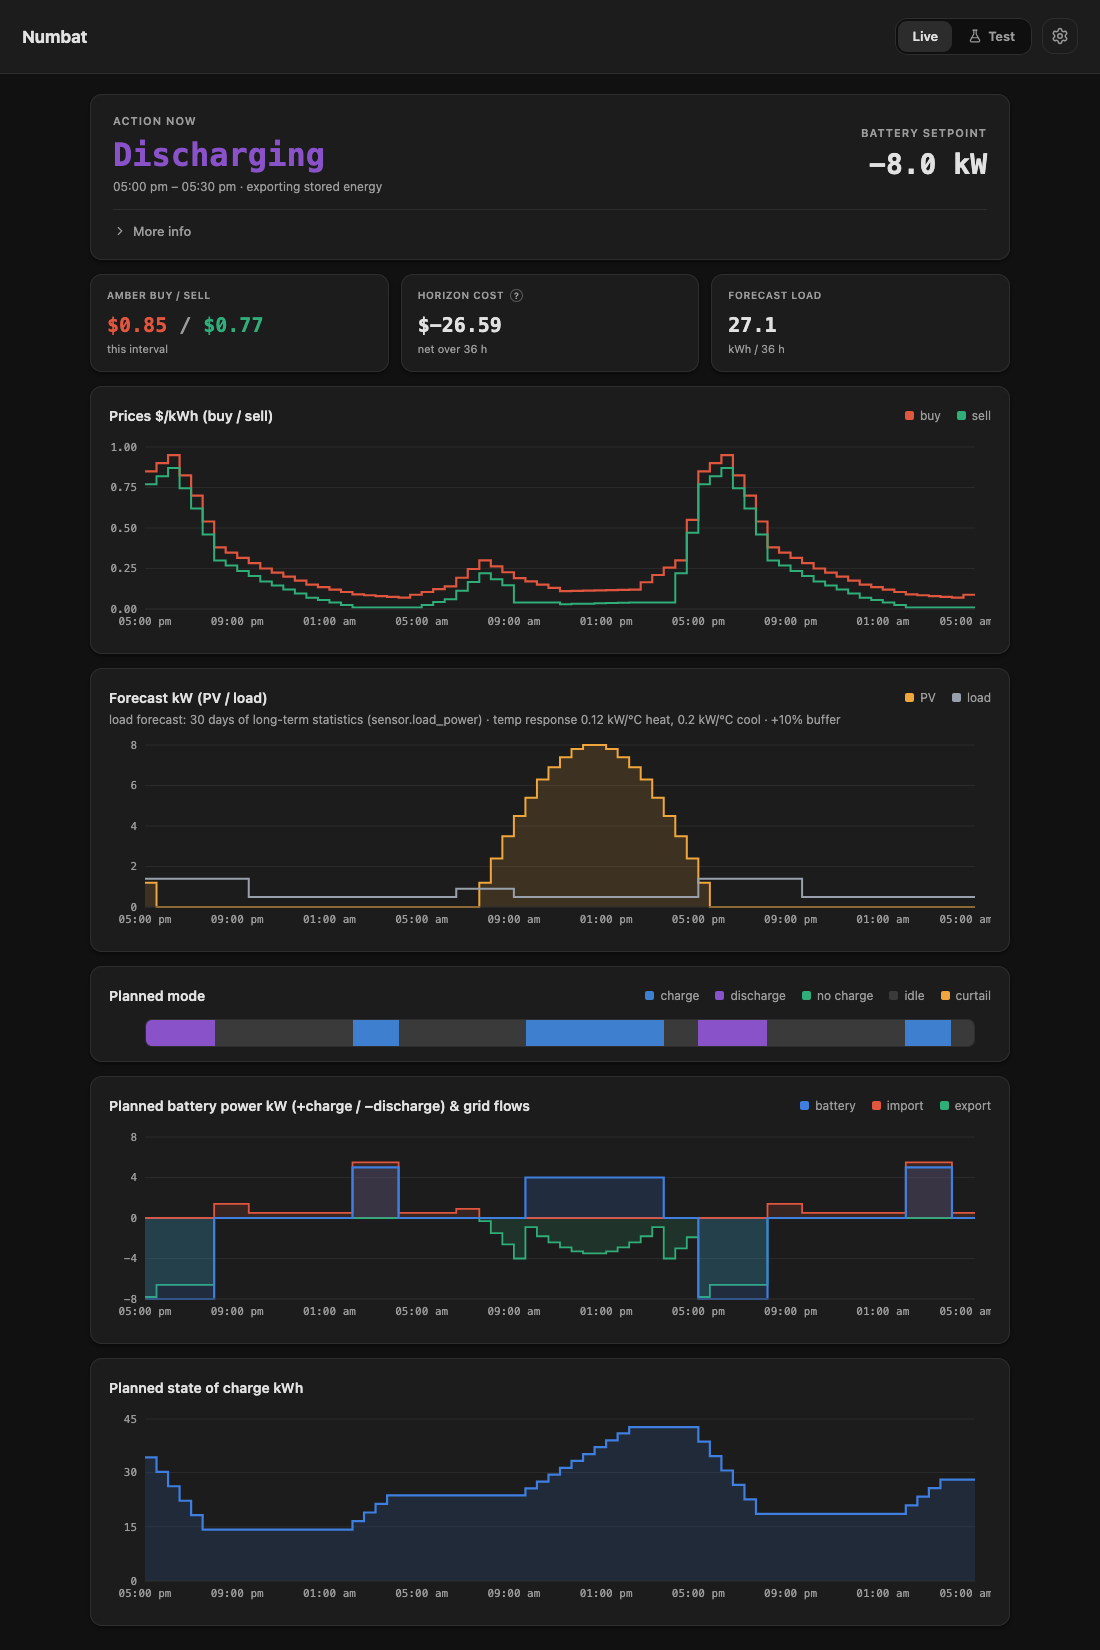
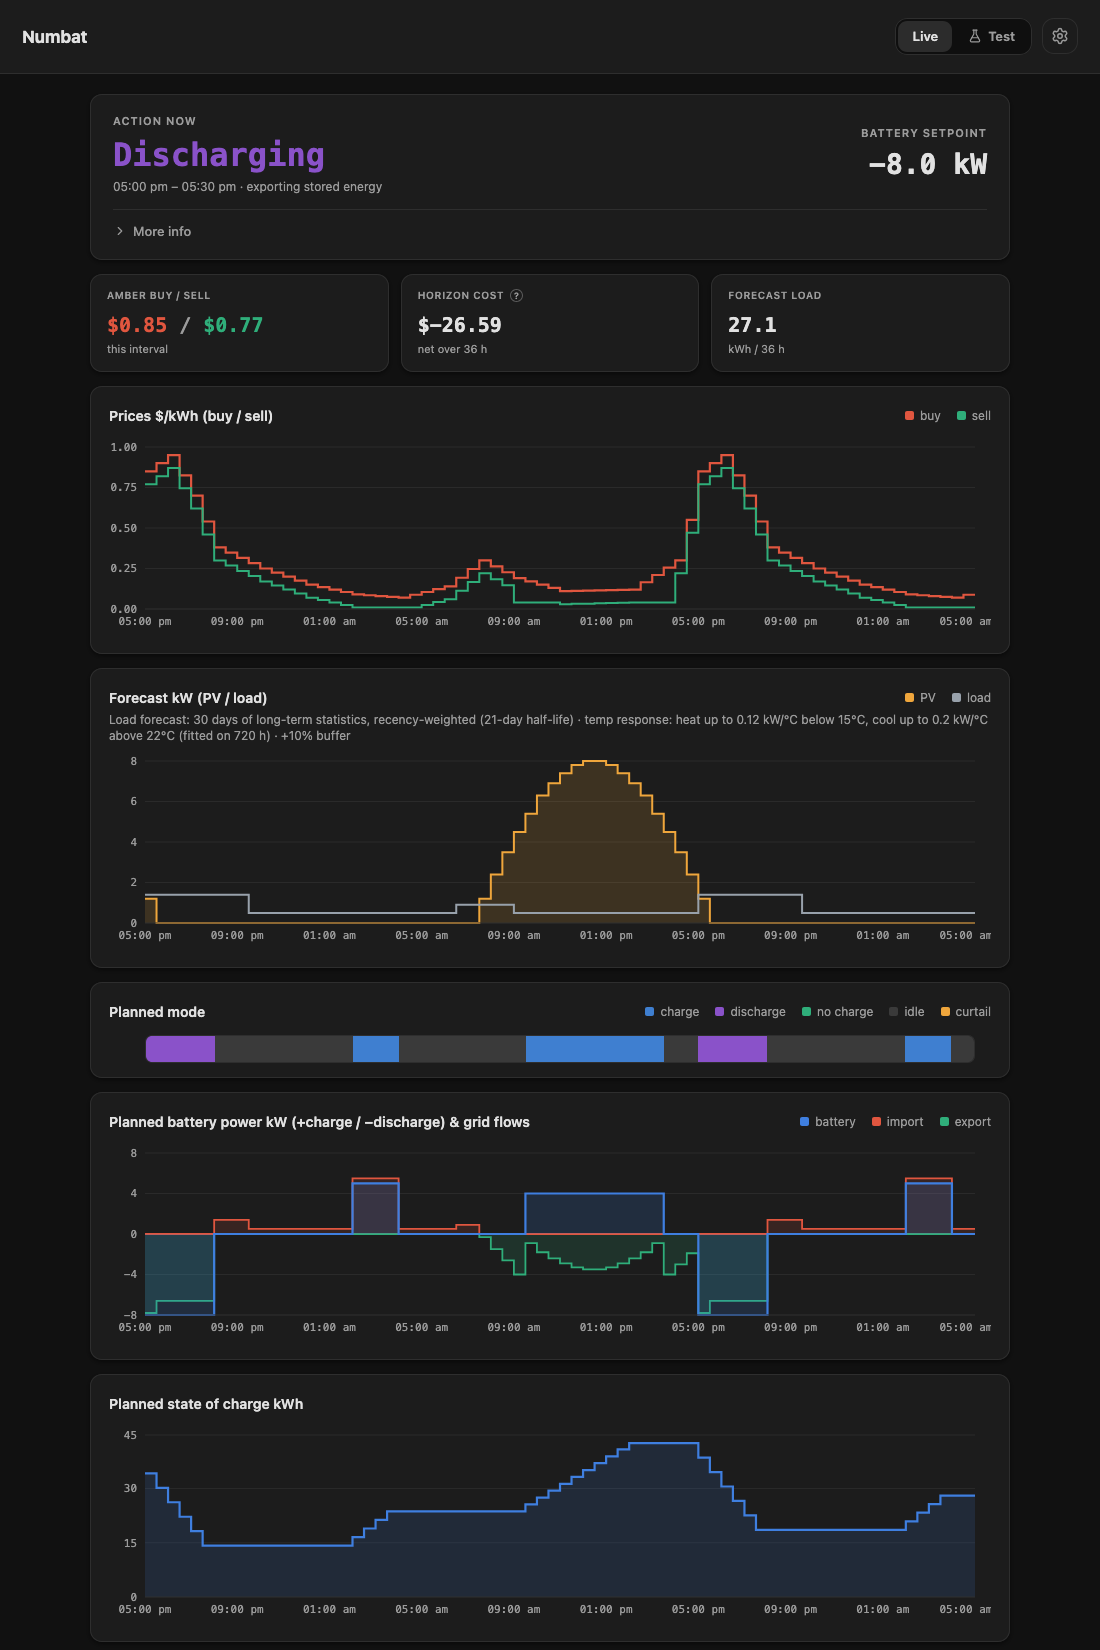
Release 0.16.0: recency-weighted load learning + PV replay-units fix
Screenshots regenerated: the dashboard's load-forecast line now shows
the recency weighting and full temperature response.

diff --git a/numbat/frontend/scripts/screenshot.ts b/numbat/frontend/scripts/screenshot.ts
@@ -98,8 +98,9 @@ function makePlan() {
       load_forecast: "learned",
       load_forecast_info: {
         load_entity: "sensor.load_power", source: "long-term statistics",
-        window_days: 30, temp_response: true, heat_kw_per_deg: 0.12,
-        cool_kw_per_deg: 0.2, buffer: 0.1,
+        window_days: 30, half_life_days: 21, temp_response: true,
+        heat_kw_per_deg: 0.12, cool_kw_per_deg: 0.2,
+        balance_heat_c: 15, balance_cool_c: 22, temp_hours: 720, buffer: 0.1,
       },
       explanation: {
         values: {

diff --git a/numbat/src/numbat/__init__.py b/numbat/src/numbat/__init__.py
@@ -1,1 +1,1 @@
-__version__ = "0.15.0"
+__version__ = "0.16.0"

diff --git a/numbat/CHANGELOG.md b/numbat/CHANGELOG.md
@@ -1,6 +1,6 @@
 # Changelog
 
-## Unreleased
+## 0.16.0
 
 - **Load learning is recency-weighted (21-day half-life).** Bucket means and
   the temperature regression decay a sample's weight by half every three
